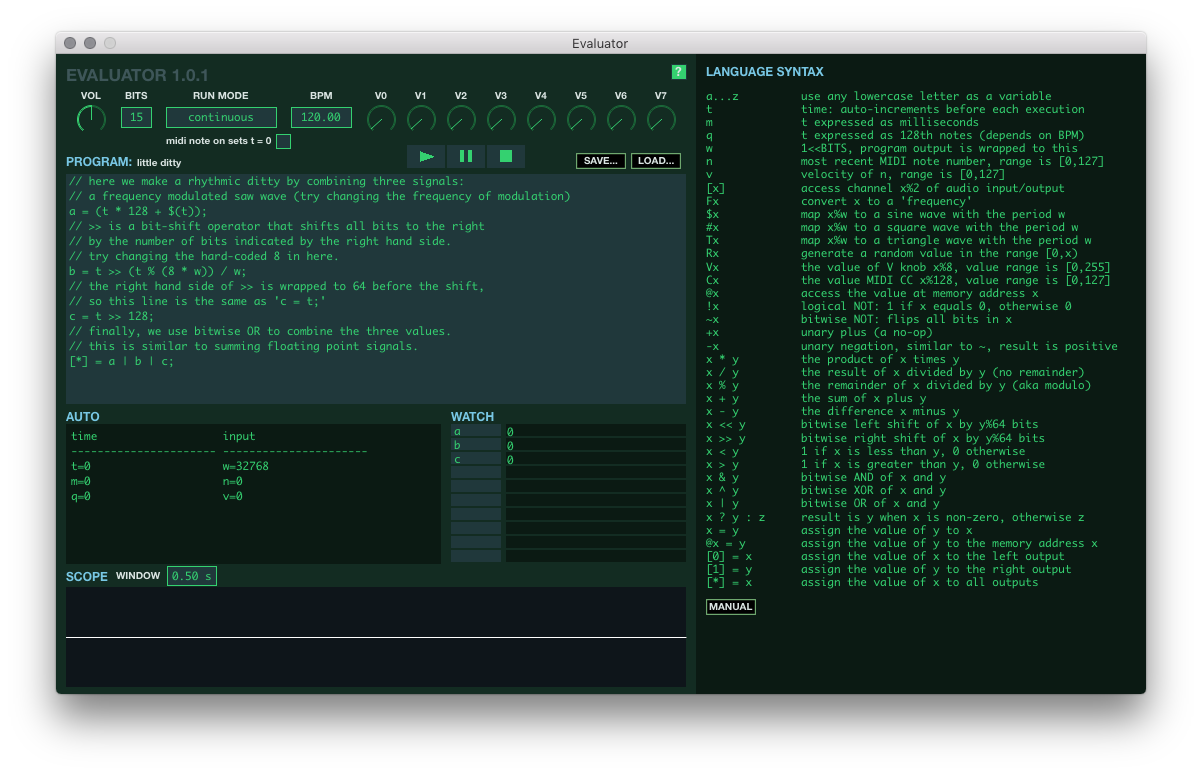
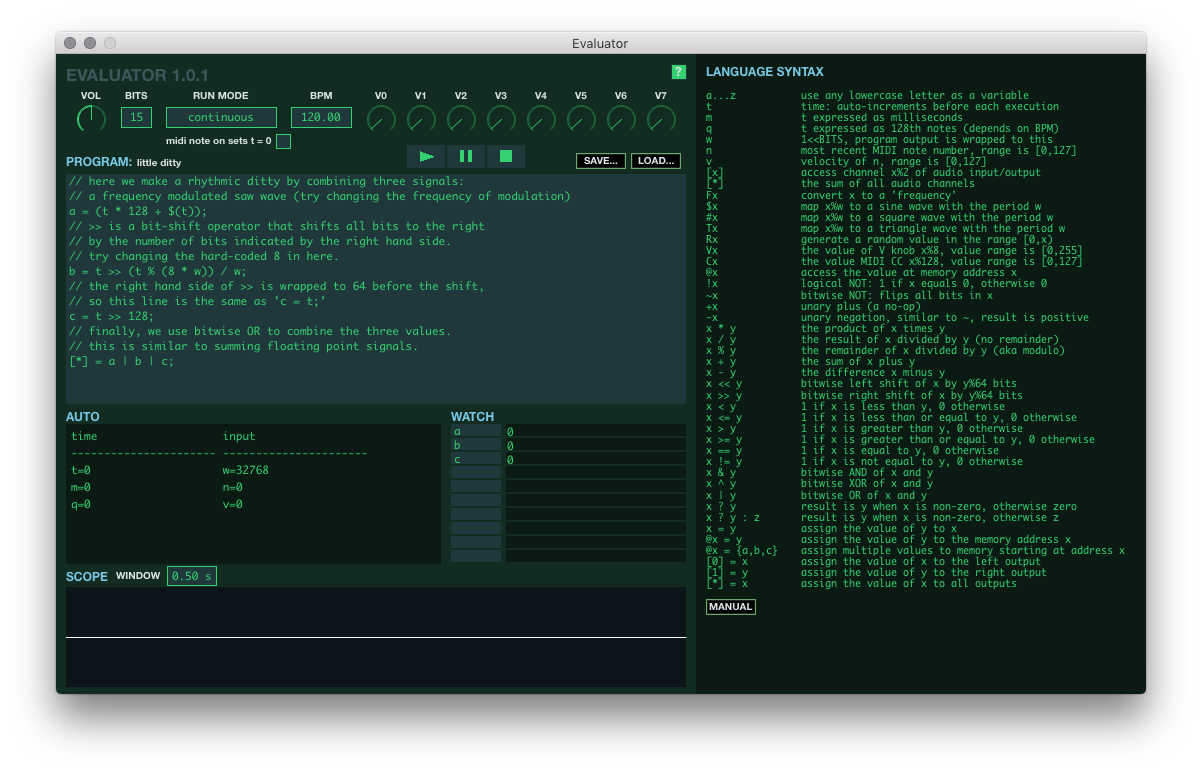
increase syntax font size on OSX and take new screenshot for the manual

diff --git a/Interface.cpp b/Interface.cpp
@@ -244,7 +244,7 @@ static char* LabelFontName = "Helvetica Neue";
 static const int kFontSizeLabel = 12;
 static const int kFontSizeTitle = 14;
 static const int kFontSizeConsole = 15;
-static const int kFontSizeSyntax = 13;
+static const int kFontSizeSyntax = 14;
 #endif
 
 IText  kProgramTextStyle(kFontSizeConsole,
